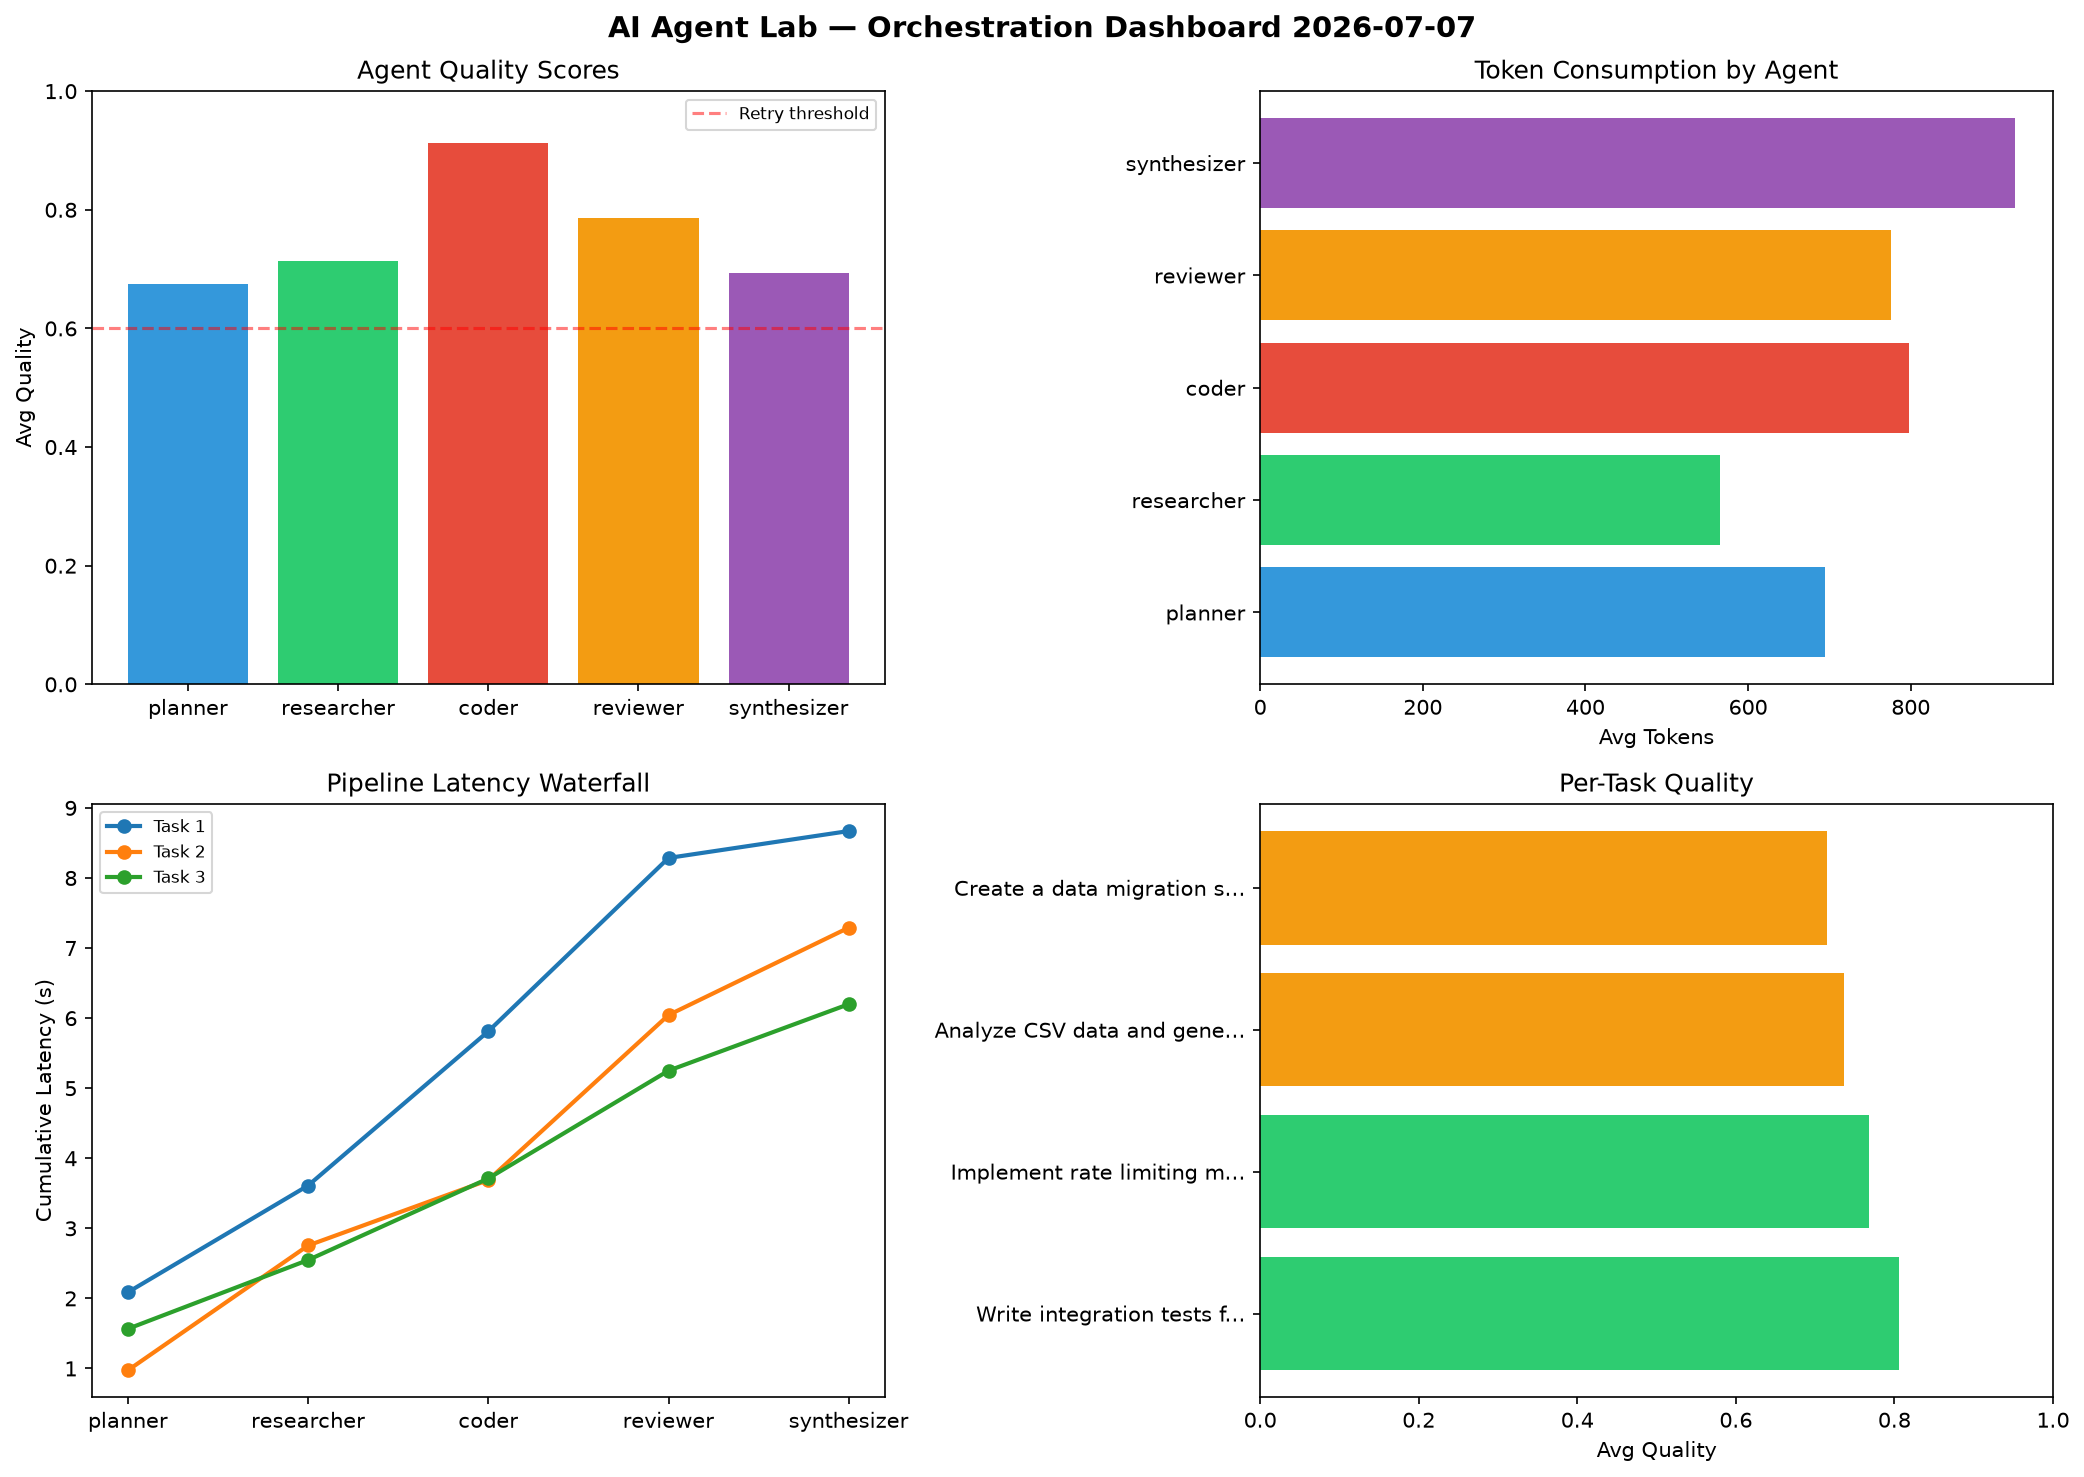
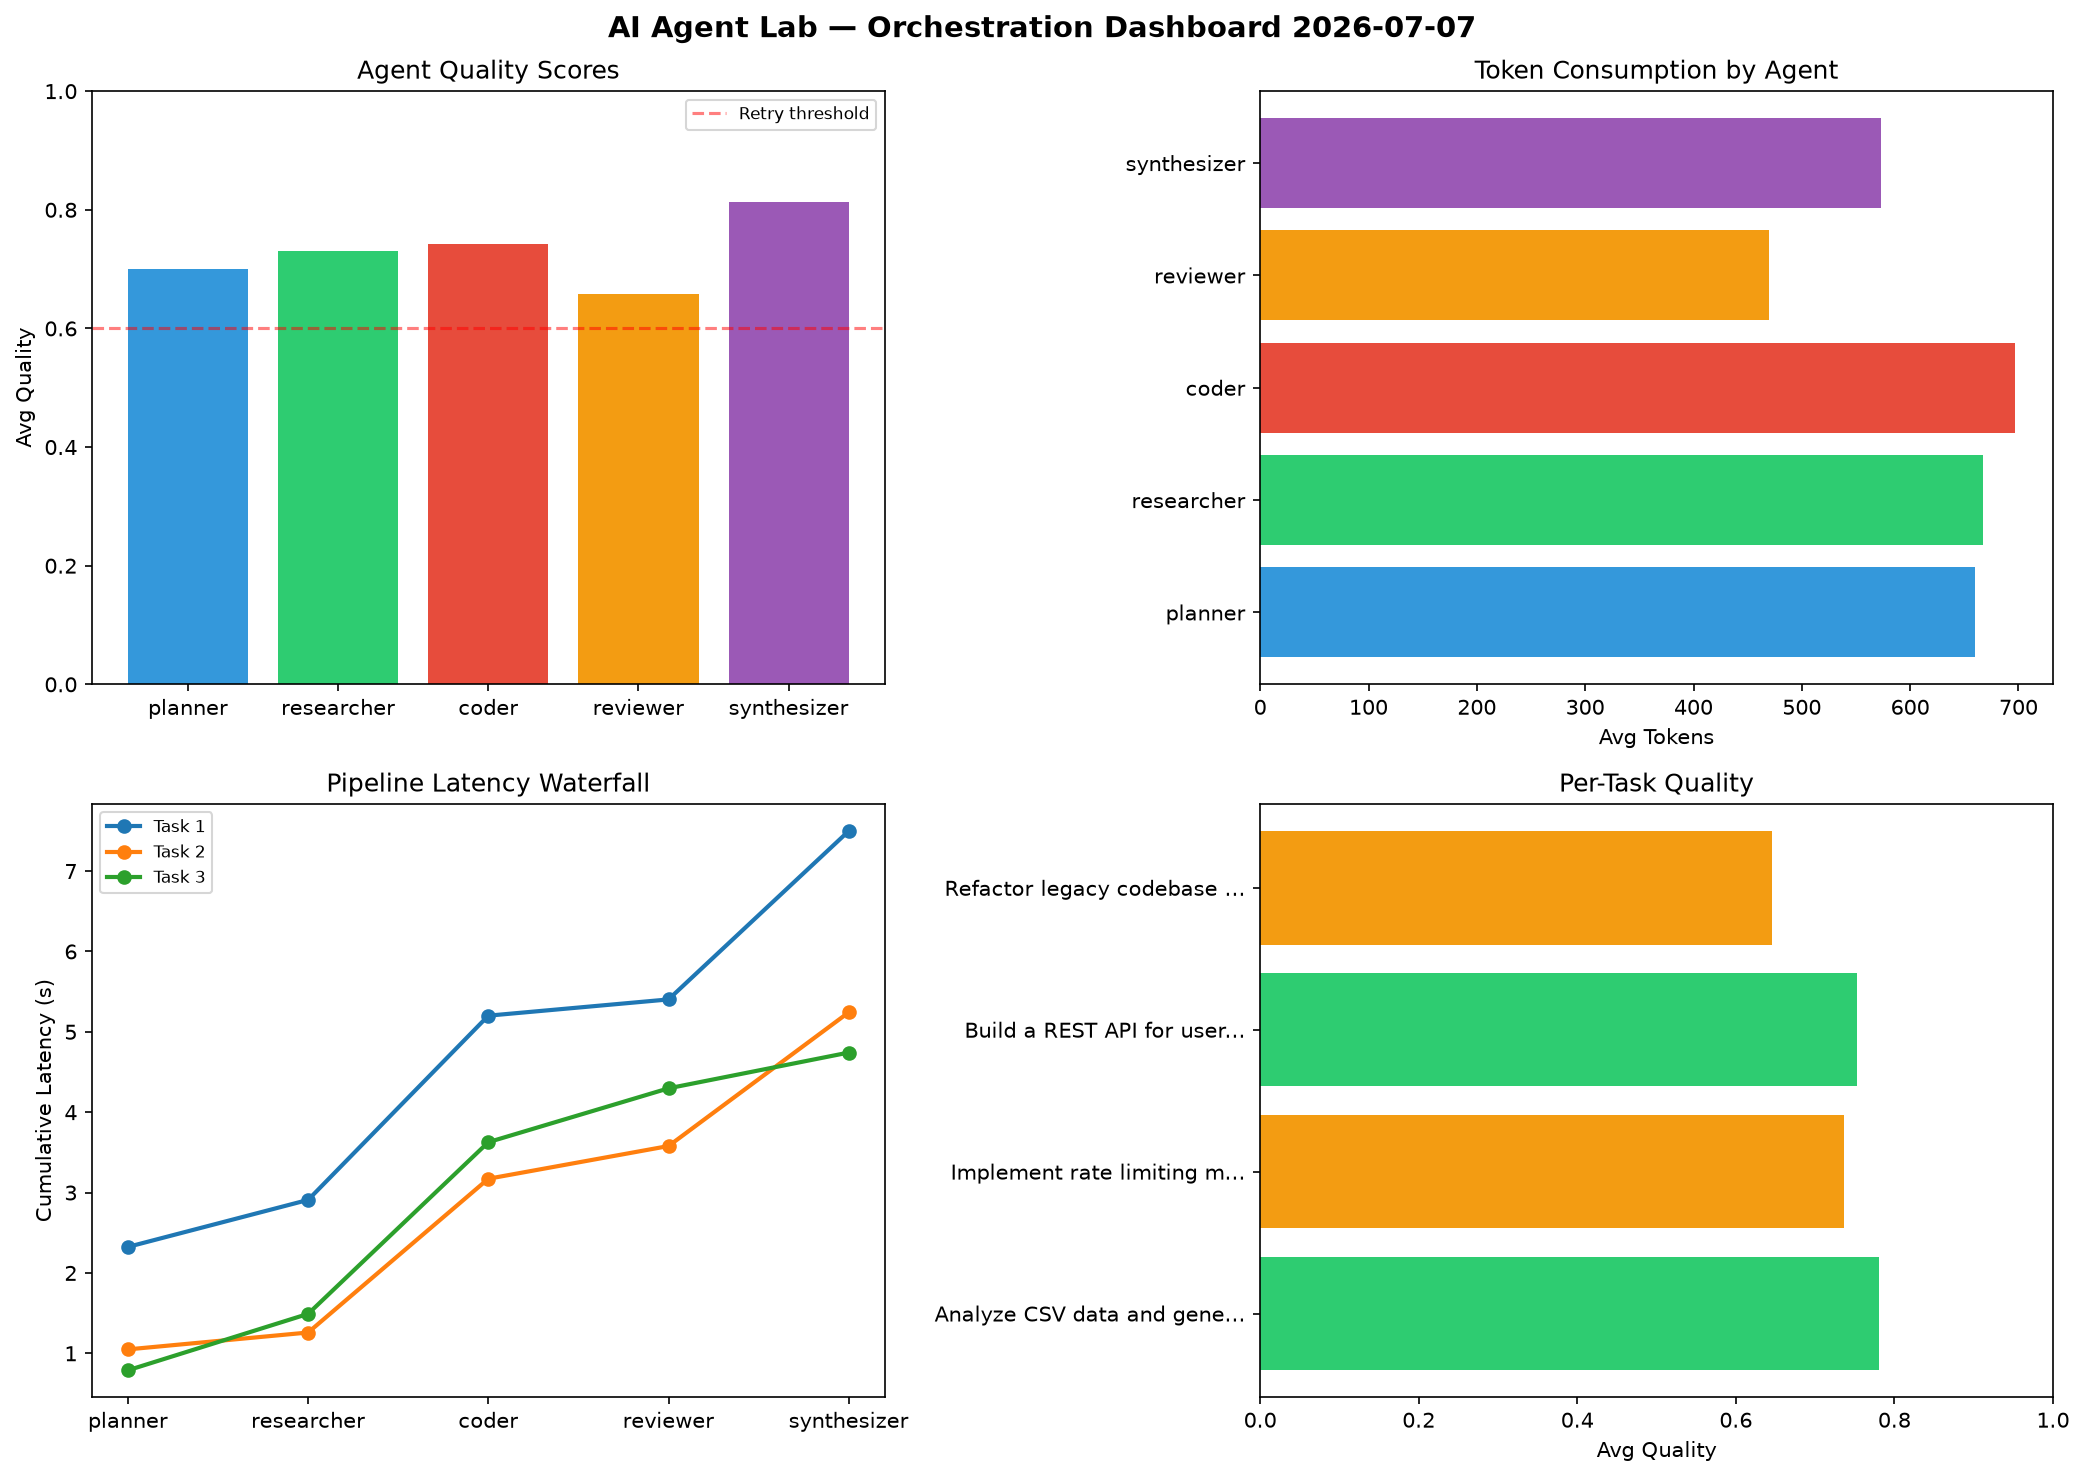
ai-agent-lab: orchestration run 2026-07-07T21:45

diff --git a/logs/2026-07-07.md b/logs/2026-07-07.md
@@ -1,6 +1,6 @@
 # AI Agent Lab — Orchestration Report 2026-07-07
 
-**Run ID:** `4e4b9e8025` | **Tasks:** 4 | **Avg Quality:** 0.756
+**Run ID:** `f399e247d9` | **Tasks:** 4 | **Avg Quality:** 0.729
 
 ![Dashboard](2026-07-07_dashboard.png)
 
@@ -8,52 +8,52 @@
 
 | Metric | Value |
 |--------|-------|
-| avg_latency | 6.515 |
-| total_tokens | 15044 |
-| avg_quality | 0.756 |
+| avg_latency | 6.499 |
+| total_tokens | 12266 |
+| avg_quality | 0.729 |
 
 ## Delta vs Yesterday
 
 | Metric | Today | Yesterday | Change |
 |--------|-------|-----------|--------|
-| avg_latency | 6.515 | 7.171 | 📉 -9.1% |
-| total_tokens | 15044 | 13133 | 📈 14.6% |
-| avg_quality | 0.756 | 0.671 | 📈 12.7% |
+| avg_latency | 6.499 | 7.171 | 📉 -9.4% |
+| total_tokens | 12266 | 13133 | 📉 -6.6% |
+| avg_quality | 0.729 | 0.671 | 📈 8.6% |
 
 ## Pipeline Results
-
-### Write integration tests for payment processing module
-| Agent | Quality | Latency | Tokens | Status |
-|-------|---------|---------|--------|--------|
-| planner | 0.75 | 2.088s | 623 | success |
-| researcher | 0.83 | 1.523s | 635 | success |
-| coder | 0.765 | 2.201s | 731 | success |
-| reviewer | 0.932 | 2.474s | 1125 | success |
-| synthesizer | 0.752 | 0.384s | 684 | success |
-
-### Implement rate limiting middleware
-| Agent | Quality | Latency | Tokens | Status |
-|-------|---------|---------|--------|--------|
-| planner | 0.598 | 0.974s | 1080 | needs_retry |
-| researcher | 0.711 | 1.781s | 588 | success |
-| coder | 0.93 | 0.934s | 1227 | success |
-| reviewer | 0.759 | 2.355s | 421 | success |
-| synthesizer | 0.842 | 1.247s | 889 | success |
 
 ### Analyze CSV data and generate statistical summary
 | Agent | Quality | Latency | Tokens | Status |
 |-------|---------|---------|--------|--------|
-| planner | 0.557 | 1.566s | 588 | needs_retry |
-| researcher | 0.773 | 0.982s | 530 | success |
-| coder | 0.986 | 1.164s | 809 | success |
-| reviewer | 0.786 | 1.538s | 766 | success |
-| synthesizer | 0.583 | 0.949s | 1189 | needs_retry |
+| planner | 0.634 | 2.324s | 703 | success |
+| researcher | 0.882 | 0.585s | 619 | success |
+| coder | 0.702 | 2.292s | 497 | success |
+| reviewer | 0.777 | 0.202s | 594 | success |
+| synthesizer | 0.91 | 2.095s | 862 | success |
 
-### Create a data migration script for schema v2
+### Implement rate limiting middleware
 | Agent | Quality | Latency | Tokens | Status |
 |-------|---------|---------|--------|--------|
-| planner | 0.796 | 0.197s | 486 | success |
-| researcher | 0.544 | 0.607s | 507 | needs_retry |
-| coder | 0.968 | 1.284s | 422 | success |
-| reviewer | 0.669 | 0.29s | 792 | success |
-| synthesizer | 0.596 | 1.523s | 952 | needs_retry |
+| planner | 0.763 | 1.049s | 697 | success |
+| researcher | 0.641 | 0.21s | 1167 | success |
+| coder | 0.635 | 1.913s | 853 | success |
+| reviewer | 0.717 | 0.407s | 534 | success |
+| synthesizer | 0.926 | 1.663s | 452 | success |
+
+### Build a REST API for user authentication
+| Agent | Quality | Latency | Tokens | Status |
+|-------|---------|---------|--------|--------|
+| planner | 0.886 | 0.789s | 895 | success |
+| researcher | 0.749 | 0.702s | 282 | success |
+| coder | 0.712 | 2.136s | 903 | success |
+| reviewer | 0.617 | 0.67s | 349 | success |
+| synthesizer | 0.801 | 0.445s | 399 | success |
+
+### Refactor legacy codebase to use dependency injection
+| Agent | Quality | Latency | Tokens | Status |
+|-------|---------|---------|--------|--------|
+| planner | 0.521 | 1.637s | 346 | needs_retry |
+| researcher | 0.65 | 0.717s | 600 | success |
+| coder | 0.92 | 2.408s | 535 | success |
+| reviewer | 0.523 | 1.728s | 400 | needs_retry |
+| synthesizer | 0.617 | 2.023s | 579 | success |
